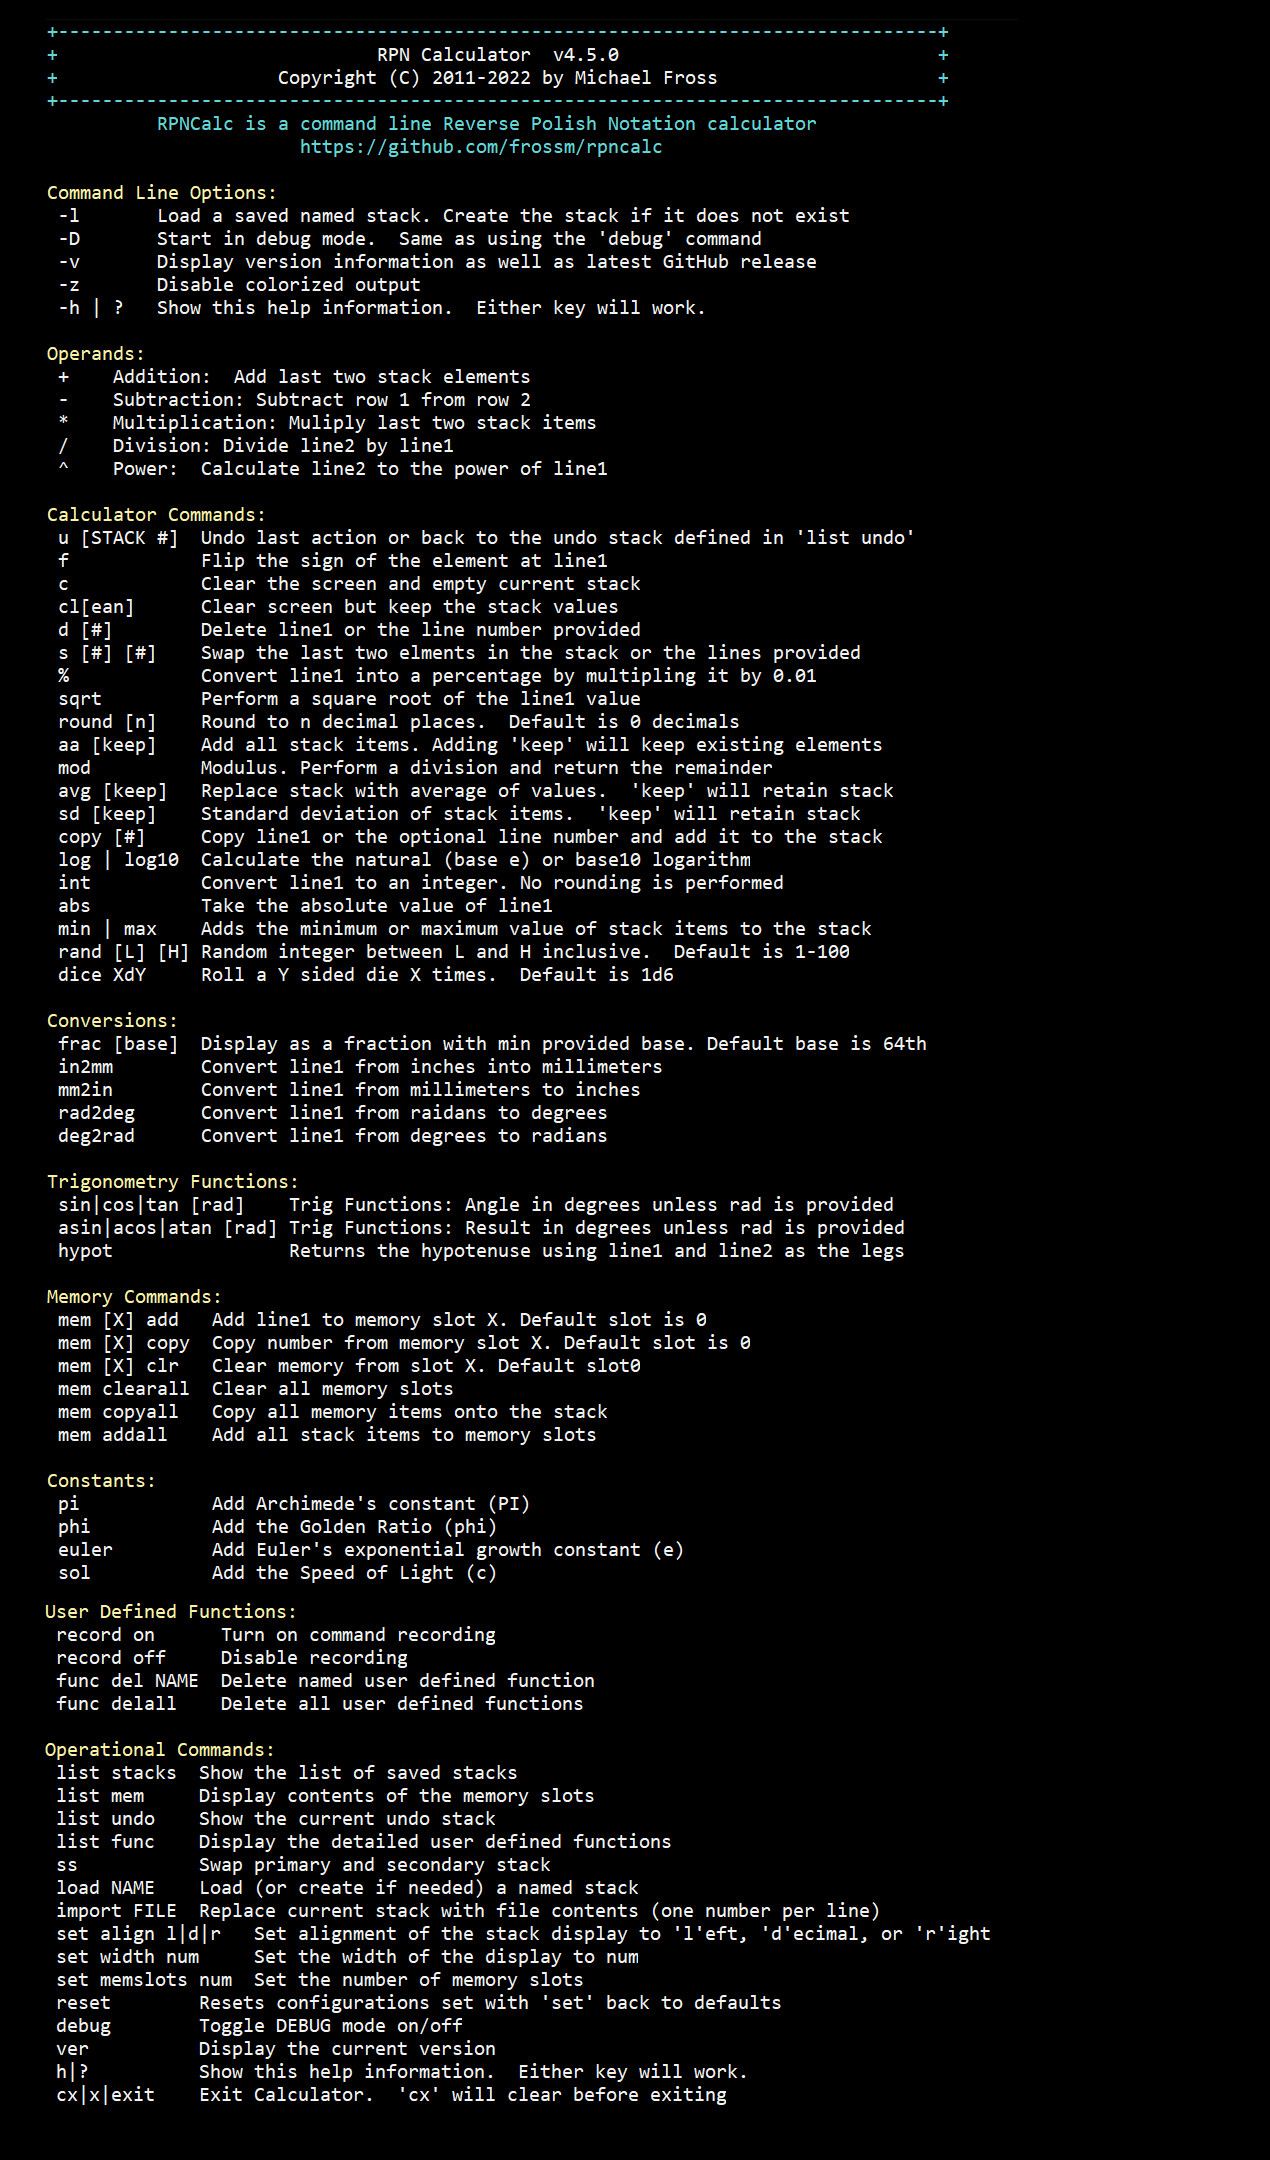
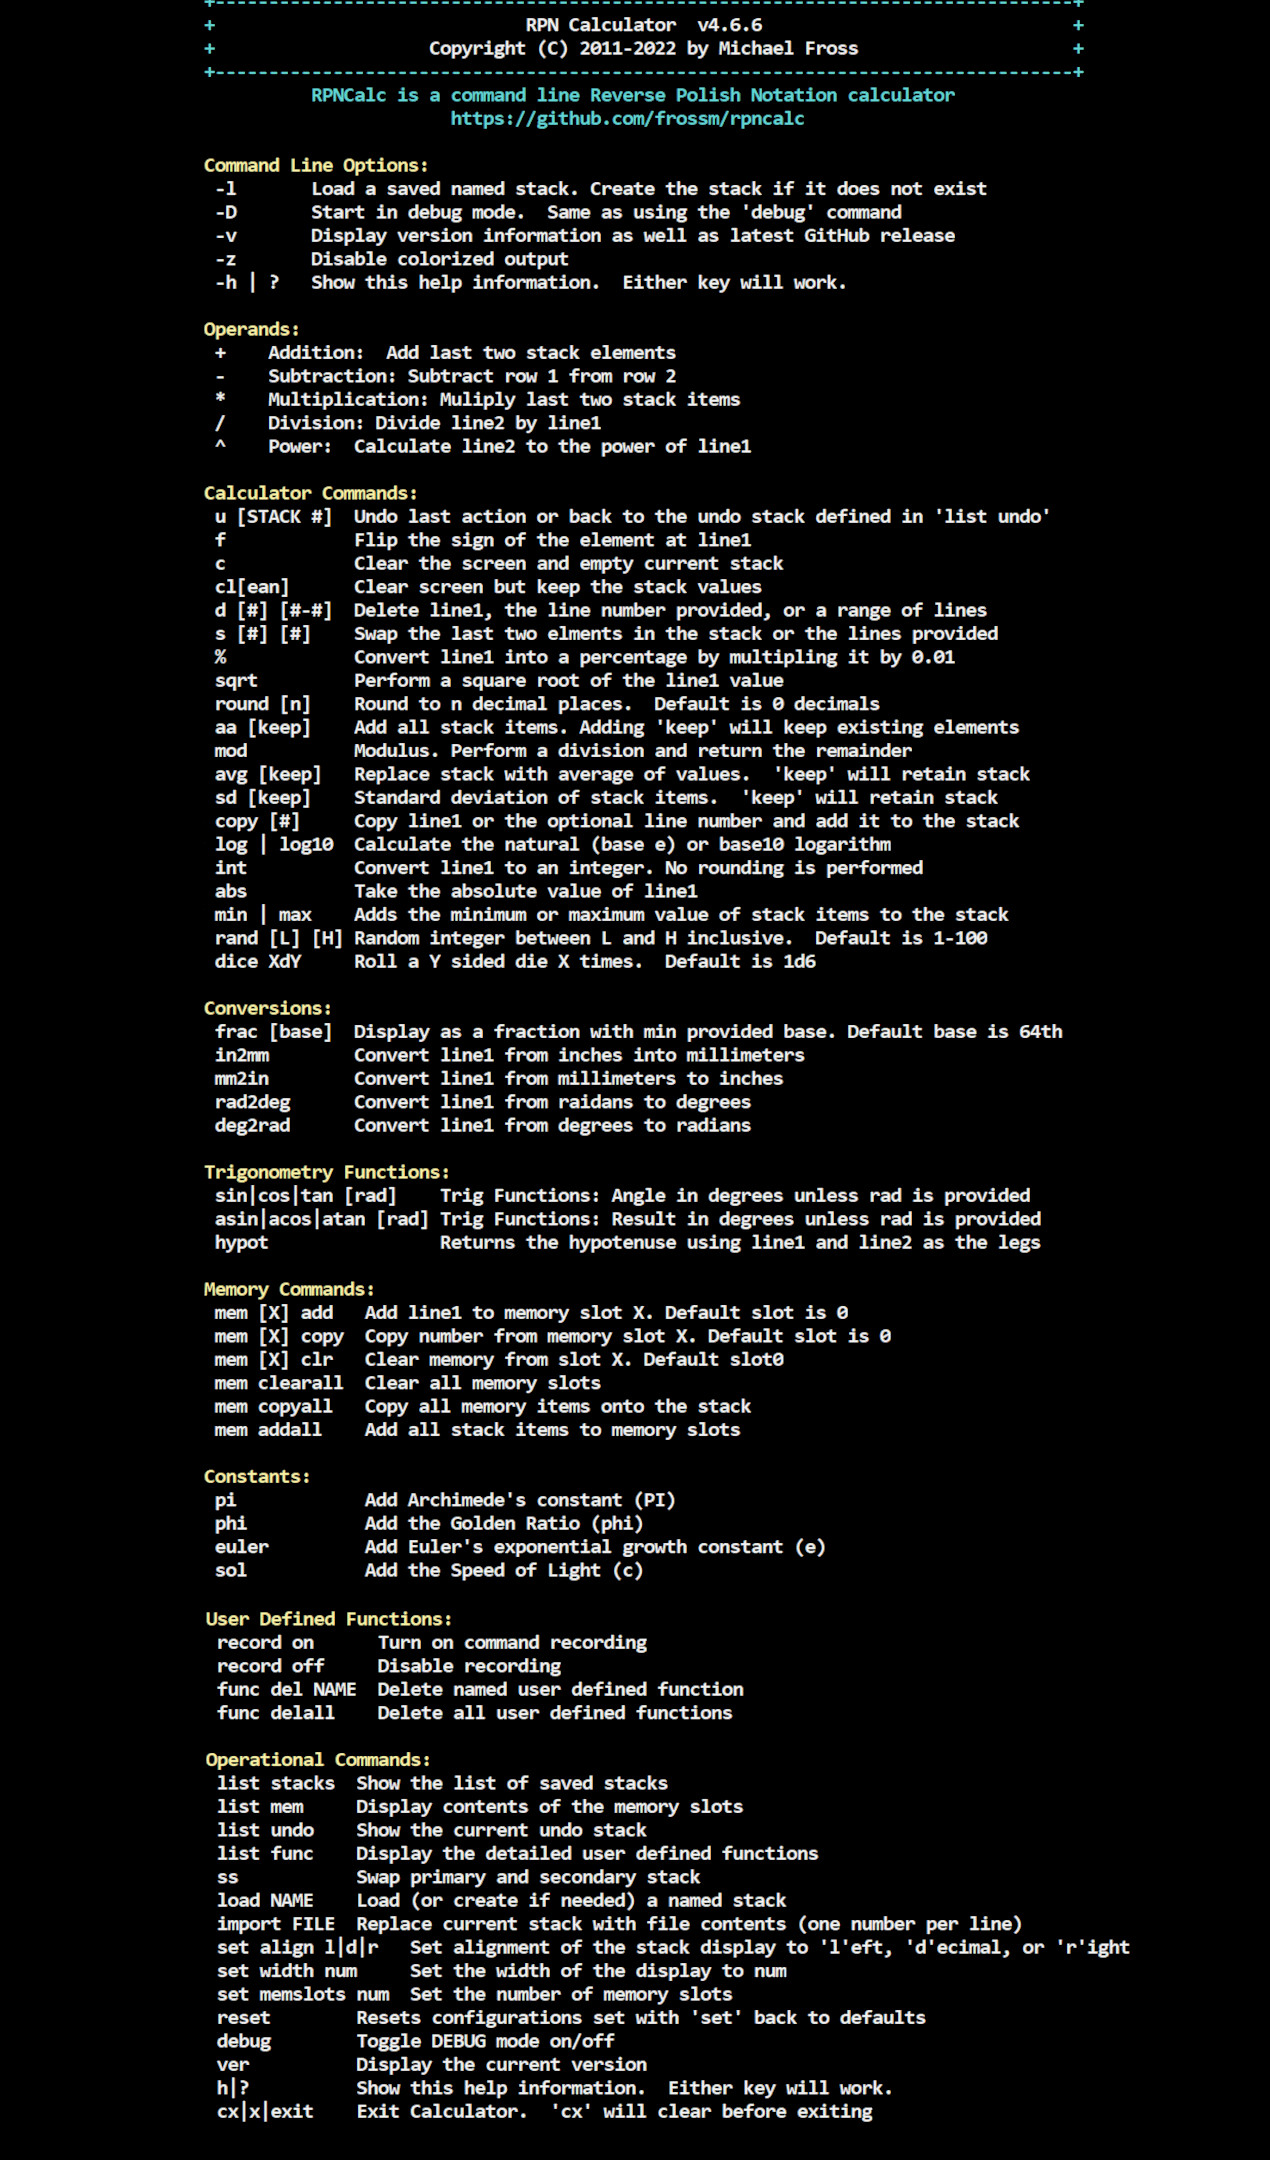
Updated user guide and screen shot This is to show deletion via a range of line numbers

diff --git a/mdbook/src/Chapters/CalculatorCommands.md b/mdbook/src/Chapters/CalculatorCommands.md
@@ -10,11 +10,11 @@ These commands, like the others you'll read about later, are executed by typing 
 
 |Command|Description|
 |-------|-----------|
-|u [#]<br> undo [#]| *UNDO*<br>By default, undo the last operation.  However, if an undo stack line number is given, as displayed with the `list undo` command, undo will restore the stack back to that point.  Please keep in mind that if you restore back to a previous undo state, later undo states will be discarded.  You can't go back. Typically, however, `u` undo is used to simply undo the previous action|
+|u [#]<br> undo [#]| **UNDO**<br>By default, undo the last operation.  However, if an undo stack line number is given, as displayed with the `list undo` command, undo will restore the stack back to that point.  Please keep in mind that if you restore back to a previous undo state, later undo states will be discarded.  You can't go back. Typically, however, `u` undo is used to simply undo the previous action|
 |f <br> flip | **FLIP SIGN**<br>Flip the sign on the top stack item (`line1`). This is effectively multiplying `line1` by -1|
 |c <br> clear| **CLEAR**<br>Clear the current stack and the screen.  Memory data is retained and you can undo the clear with the undo `u` command|
 |cl <br> clean| **CLEAN SCREEN**<br>Clear the current screen, but keep the stack.  After cleaning, the stack will be displayed at the top of the screen.  Used to remove the clutter|
-|d [#] <br> del [#] <br> drop [#]| **DELETE**<br>Delete the number on the top of the stack (`line1`) or, optionally, deletes the line number provided|
+|d<br>d [#]<br>d [#-#]| **DELETE**<br>If `d` is given without any parameters, it will delete `line1`.  If a line number is given after the `d`, that line number will be deleted.  A range can be given as well, such as `d 1-3` and RPNCalc will delete those lines and everything inbetween|
 |s [#] \[#] <br> swap [#] \[#]| **SWAP LINES**<br>Without an argument, swap the top two stack items (`line1 & line2`).  You can swap any two line numbers in your stack by providing the two line numbers|
 |%| **PERCENT**<br>Assumes `line1` contains a percent.  This converts that into a number by simply dividing that value by 100.  For example, if you want to take 50.123% of a number, you could just enter in `50.123 [ENTER] % [ENTER] *`|
 |sqrt| **SQUARE ROOT**<br>Perform a [square root](https://en.wikipedia.org/wiki/Square_root) of the top stack item (`line1`)|
